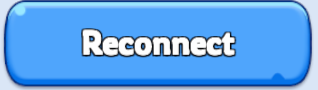
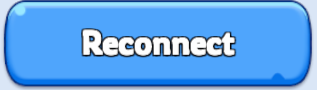
upd

Changed region(s): [[0.2271, 0.3333, 0.7666, 0.6444], [0.9085, 0.0, 0.9937, 0.9556]]

diff --git a/tests/test_screen_verify_config.py b/tests/test_screen_verify_config.py
@@ -65,6 +65,19 @@ def test_production_screen_verify_yaml_contains_chief_profile_rule() -> None:
     assert rules == expected
 
 
+def test_production_screen_verify_yaml_contains_main_city_rule() -> None:
+    screen_graph.load_screen_verify_config.cache_clear()
+    try:
+        landmarks = screen_graph.screen_landmark_rules("main_city")
+        rules = screen_graph.screen_verify_rules("main_city")
+    finally:
+        screen_graph.load_screen_verify_config.cache_clear()
+
+    expected = [{"match": "icon.world", "threshold": 0.9}]
+    assert {"match": "icon.world"} in landmarks
+    assert rules == expected
+
+
 def test_production_screen_verify_yaml_active_rules_are_template_matches() -> None:
     screen_graph.load_screen_verify_config.cache_clear()
     try:

diff --git a/tests/test_labeling_omniparser.py b/tests/test_labeling_omniparser.py
@@ -53,12 +53,21 @@ def test_filter_blacklisted_omniparser_regions_by_name() -> None:
                 "height": 50.0,
             },
         },
+        {
+            "name": "text.6_6",
+            "bbox": {
+                "x": 25.0,
+                "y": 25.0,
+                "width": 25.0,
+                "height": 25.0,
+            },
+        },
     ]
 
     kept, skipped = omni._filter_blacklisted_omniparser_regions(image, regions)
 
     assert [r["name"] for r in kept] == ["icon.real_button"]
-    assert skipped == 1
+    assert skipped == 2
 
 
 def _region(name: str, *, x: float = 10.0) -> dict[str, object]:

diff --git a/src/ui/labeling_omniparser.py b/src/ui/labeling_omniparser.py
@@ -30,9 +30,14 @@ OMNIPARSER_CROP_HASH_BLACKLIST: frozenset[str] = frozenset(
[3 lines of base64/hex data omitted]
+        # Decorative main-city event badge text (`text.6_6`).
[1 lines of base64/hex data omitted]
     }
 )
-OMNIPARSER_NAME_BLACKLIST_PREFIXES: tuple[str, ...] = ("icon.unanswerable",)
+OMNIPARSER_NAME_BLACKLIST_PREFIXES: tuple[str, ...] = (
+    "icon.unanswerable",
+    "text.6_6",
+)
 
 
 def _bbox_rect(region: dict[str, object]) -> tuple[float, float, float, float] | None: